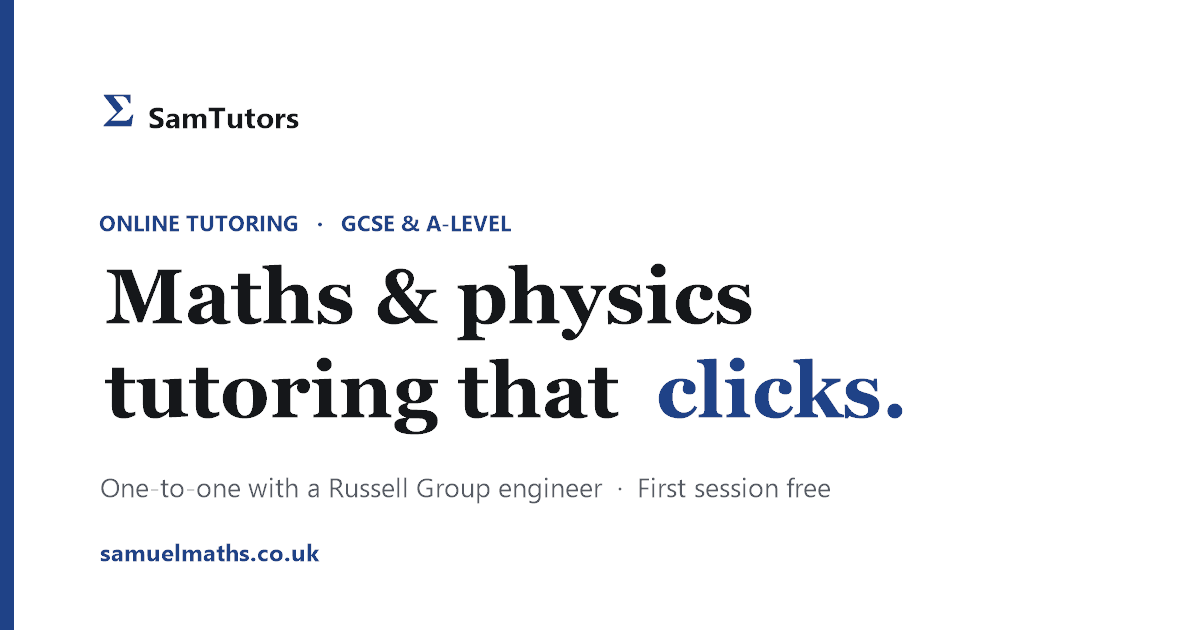
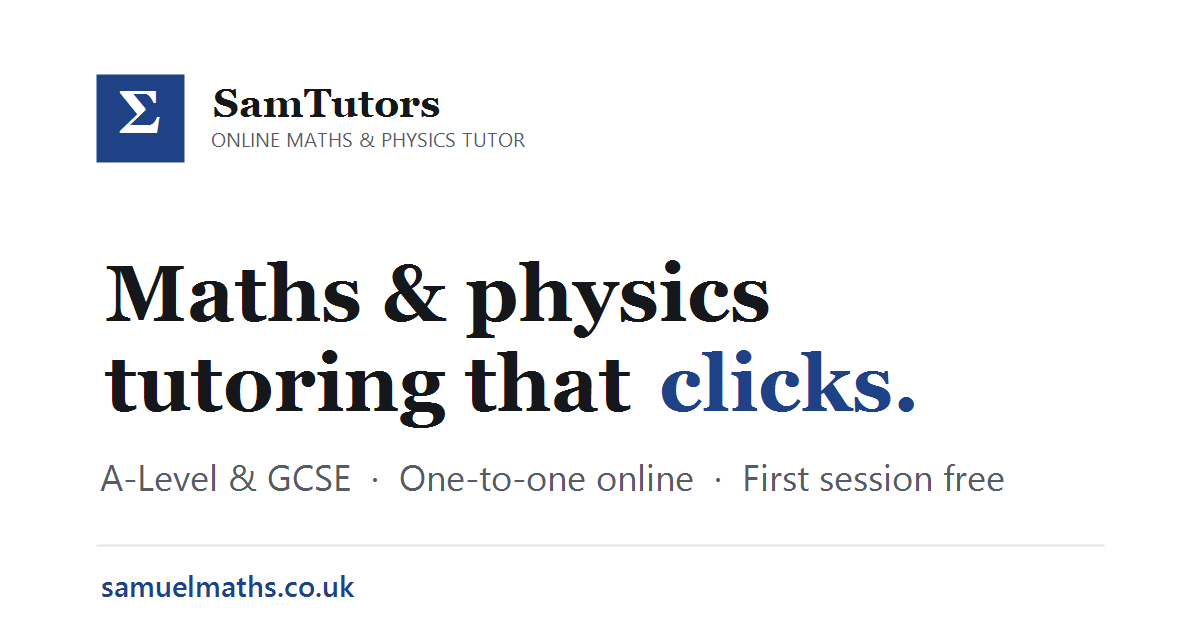
Changes

diff --git a/index.html b/index.html
@@ -5,7 +5,7 @@
   <meta name="viewport" content="width=device-width, initial-scale=1.0" />
   <script>document.documentElement.classList.add("js");</script>
   <title>Online Maths &amp; Physics Tutor · GCSE &amp; A-Level | SamTutors</title>
-  <meta name="description" content="Online one-to-one A-Level &amp; GCSE Maths and Physics tutoring from a Russell Group engineering student. First session free — now taking on new students for September." />
+  <meta name="description" content="Online one-to-one A-Level &amp; GCSE Maths and Physics tutoring from a Russell Group engineering student. First session free. Now taking on new students for September." />
   <link rel="canonical" href="https://samuelmaths.co.uk/" />
   <meta name="robots" content="index, follow, max-image-preview:large" />
   <meta name="theme-color" content="#1f4287" />
@@ -20,7 +20,7 @@
   <meta property="og:image" content="https://samuelmaths.co.uk/assets/og-image.png" />
   <meta property="og:image:width" content="1200" />
   <meta property="og:image:height" content="630" />
-  <meta property="og:image:alt" content="SamTutors — maths &amp; physics tutoring that clicks" />
+  <meta property="og:image:alt" content="SamTutors: maths &amp; physics tutoring that clicks" />
 
   <!-- Twitter -->
   <meta name="twitter:card" content="summary_large_image" />
@@ -63,9 +63,9 @@
       {
         "@type": "Person",
         "@id": "https://samuelmaths.co.uk/#sam",
-        "name": "Samuel",
+        "name": "Sam",
         "jobTitle": "Maths & Physics Tutor",
-        "description": "Second-year Electrical and Electronic Engineering student at the University of Bristol (Russell Group) with A* Mathematics and over a year of tutoring experience.",
+        "description": "Second-year Electrical and Electronic Engineering student at the University of Bristol with A* Mathematics and over a year of tutoring experience.",
         "image": "https://samuelmaths.co.uk/assets/sam.jpg",
         "worksFor": { "@id": "https://samuelmaths.co.uk/#business" },
         "affiliation": { "@type": "CollegeOrUniversity", "name": "University of Bristol" },
@@ -100,8 +100,8 @@
           {
             "@type": "Offer",
             "priceCurrency": "GBP",
-            "price": "30",
-            "priceSpecification": { "@type": "UnitPriceSpecification", "price": "30", "priceCurrency": "GBP", "unitText": "hour" },
+            "price": "25",
+            "priceSpecification": { "@type": "UnitPriceSpecification", "price": "25", "priceCurrency": "GBP", "unitText": "hour" },
             "itemOffered": { "@type": "Service", "name": "GCSE Physics tutoring", "serviceType": "Tutoring" }
           }
         ]
@@ -113,12 +113,12 @@
           {
             "@type": "Question",
             "name": "How and where do the lessons take place?",
-            "acceptedAnswer": { "@type": "Answer", "text": "All lessons are online over Zoom, using a shared interactive whiteboard so your child and I can work through problems together in real time — just like sitting side by side, from the comfort of home." }
+            "acceptedAnswer": { "@type": "Answer", "text": "All lessons are online over Zoom, using a shared interactive whiteboard so your child and I can work through problems together in real time, just like sitting side by side, from the comfort of home." }
           },
           {
             "@type": "Question",
             "name": "Will my child get homework, and how will I know how they're doing?",
-            "acceptedAnswer": { "@type": "Answer", "text": "Yes — I set homework after each session to consolidate what we've covered, and I'll send you a short progress update so you always know how your child is getting on and what we're working towards." }
+            "acceptedAnswer": { "@type": "Answer", "text": "Yes, I set homework after each session to consolidate what we've covered, and I'll send you a short progress update so you always know how your child is getting on and what we're working towards." }
           },
           {
             "@type": "Question",
@@ -133,7 +133,7 @@
           {
             "@type": "Question",
             "name": "How do payment and cancellations work?",
-            "acceptedAnswer": { "@type": "Answer", "text": "Sessions are paid per hour at the rates listed above. Please give at least 24 hours' notice to cancel or reschedule — cancellations within 24 hours are charged in full." }
+            "acceptedAnswer": { "@type": "Answer", "text": "Sessions are paid per hour at the rates listed above. Please give at least 24 hours' notice to cancel or reschedule. Cancellations within 24 hours are charged in full." }
           }
         ]
       }
@@ -169,7 +169,7 @@
       <div class="container hero-inner">
         <span class="availability reveal"><span class="dot" aria-hidden="true"></span> Currently taking on new students for September</span>
         <h1 class="reveal">Maths &amp; physics tutoring that<br /><span class="grad-text">clicks.</span></h1>
-        <p class="lead reveal">One-to-one maths and physics tutoring from a Russell Group engineering student — exam-focused and tailored to how your child learns best. The first session is free.</p>
+        <p class="lead reveal">One-to-one maths and physics tutoring from a Russell Group engineering student. Exam-focused and tailored to how your child learns best. The first session is free.</p>
         <div class="hero-actions reveal">
           <a href="#contact" class="btn btn-primary">Book a free first session</a>
           <a href="#subjects" class="btn btn-ghost">View subjects &amp; pricing</a>
@@ -198,7 +198,7 @@
         <div class="section-head reveal">
           <span class="eyebrow">What I teach</span>
           <h2>Subjects &amp; pricing</h2>
-          <p class="sub">Specialist maths and physics tutoring for GCSE and A-Level students — and your child's first session is free.</p>
+          <p class="sub">Specialist maths and physics tutoring for GCSE and A-Level students, and your child's first session is free.</p>
         </div>
         <div class="grid">
           <article class="card reveal">
@@ -223,7 +223,7 @@
             <div class="card-icon">⚛</div>
             <h3>GCSE Physics</h3>
             <p>Core concepts and exam technique across all major exam boards.</p>
-            <div class="price">£30<span>/hr</span></div>
+            <div class="price">£25<span>/hr</span></div>
           </article>
         </div>
       </div>
@@ -263,7 +263,7 @@
         <div class="reveal">
           <span class="eyebrow">About me</span>
           <h2>Hi, I'm Sam</h2>
-          <p class="sub">I'm a 2nd year Electrical and Electronic Engineering student at the University of Bristol — a Russell Group university. I've tutored for over a year across a range of exam boards, and as a passionate engineer I love making maths click for the students I work with.</p>
+          <p class="sub">I'm a 2nd year Electrical and Electronic Engineering student at the University of Bristol. I've tutored for over a year across a range of exam boards, and as a passionate engineer I love making maths click for the students I work with.</p>
           <p class="cred-label">My A-Level results</p>
           <div class="credentials reveal" aria-label="A-Level results">
             <span class="cred">A* Mathematics</span>
@@ -271,7 +271,7 @@
             <span class="cred">A Further Mathematics</span>
           </div>
           <ul class="check-list">
-            <li>Russell Group university student (University of Bristol)</li>
+            <li>University of Bristol engineering student</li>
             <li>Enhanced DBS checked for your peace of mind</li>
             <li>Over a year of tutoring experience</li>
             <li>Covering AQA, Edexcel &amp; OCR</li>
@@ -280,9 +280,9 @@
         </div>
         <div class="profile-card reveal">
           <img class="avatar-photo" src="assets/sam.jpg" alt="Sam, online maths and physics tutor" width="118" height="118" loading="lazy" decoding="async" />
-          <h3>Samuel</h3>
-          <p class="profile-role">Electrical &amp; Electronic Engineering · University of Bristol (Russell Group)</p>
-          <p>I prioritise exam questions and use a wide range of problems to push students beyond the basics — building real confidence for exam day.</p>
+          <h3>Sam</h3>
+          <p class="profile-role">Electrical &amp; Electronic Engineering · University of Bristol</p>
+          <p>I prioritise exam questions and use a wide range of problems to push students beyond the basics, building real confidence for exam day.</p>
         </div>
       </div>
     </section>
@@ -326,13 +326,13 @@
           <details class="faq-item reveal">
             <summary>How and where do the lessons take place?<span class="faq-icon" aria-hidden="true">+</span></summary>
             <div class="faq-answer">
-              <p>All lessons are online over <strong>Zoom</strong>, using a <strong>shared interactive whiteboard</strong> so your child and I can work through problems together in real time — just like sitting side by side, from the comfort of home.</p>
+              <p>All lessons are online over <strong>Zoom</strong>, using a <strong>shared interactive whiteboard</strong> so your child and I can work through problems together in real time, just like sitting side by side, from the comfort of home.</p>
             </div>
           </details>
           <details class="faq-item reveal">
             <summary>Will my child get homework, and how will I know how they're doing?<span class="faq-icon" aria-hidden="true">+</span></summary>
             <div class="faq-answer">
-              <p>Yes — I set <strong>homework</strong> after each session to consolidate what we've covered, and I'll send you a short <strong>progress update</strong> so you always know how your child is getting on and what we're working towards.</p>
+              <p>Yes, I set <strong>homework</strong> after each session to consolidate what we've covered, and I'll send you a short <strong>progress update</strong> so you always know how your child is getting on and what we're working towards.</p>
             </div>
           </details>
           <details class="faq-item reveal">
@@ -350,7 +350,7 @@
           <details class="faq-item reveal">
             <summary>How do payment and cancellations work?<span class="faq-icon" aria-hidden="true">+</span></summary>
             <div class="faq-answer">
-              <p>Sessions are paid per hour at the rates listed above. Please give at least 24 hours' notice to cancel or reschedule — cancellations within 24 hours are charged in full.</p>
+              <p>Sessions are paid per hour at the rates listed above. Please give at least 24 hours' notice to cancel or reschedule. Cancellations within 24 hours are charged in full.</p>
             </div>
           </details>
         </div>
@@ -364,7 +364,7 @@
           <div class="cta-copy">
             <span class="availability availability-light"><span class="dot" aria-hidden="true"></span> Currently taking on new students for September</span>
             <h2>Your child's first session is free</h2>
-            <p>Get in touch and let's talk about your child's goals — no commitment. I usually reply within a day.</p>
+            <p>Get in touch and let's talk about your child's goals, no commitment. I usually reply within a day.</p>
             <a class="contact-email" href="mailto:[email redacted]">[email redacted]</a>
           </div>
           <div class="contact-actions">
@@ -375,7 +375,7 @@
               Message me on WhatsApp
             </a>
             <a class="btn btn-ghost btn-block" href="mailto:[email redacted]">Email me</a>
-            <p class="fine-print">Lessons are online. Please give at least 24 hours' notice to cancel or reschedule — cancellations within 24 hours are charged in full.</p>
+            <p class="fine-print">Lessons are online. Please give at least 24 hours' notice to cancel or reschedule. Cancellations within 24 hours are charged in full.</p>
           </div>
         </div>
       </div>

diff --git a/css/style.css b/css/style.css
@@ -1,5 +1,5 @@
 /* ============================================================
-   SamTutors — refined black & white with a single accent
+   SamTutors - refined black & white with a single accent
    ============================================================ */
 :root {
   --bg: #ffffff;
@@ -27,7 +27,7 @@
 
 * { box-sizing: border-box; margin: 0; padding: 0; }
 
-html { scroll-behavior: smooth; -webkit-text-size-adjust: 100%; }
+html { scroll-behavior: smooth; -webkit-text-size-adjust: 100%; overflow-x: hidden; overscroll-behavior-x: none; }
 
 body {
   font-family: var(--font-sans);
@@ -35,6 +35,7 @@ body {
   color: var(--text);
   line-height: 1.65;
   overflow-x: hidden;
+  overscroll-behavior-x: none;
 }
 
 .container { width: 100%; max-width: var(--max); margin: 0 auto; padding: 0 1.25rem; }
@@ -255,7 +256,7 @@ section[id] { scroll-margin-top: 84px; }
 }
 
 /* ============================================================
-   Tablet / desktop — progressive enhancement (mobile-first)
+   Tablet / desktop - progressive enhancement (mobile-first)
    ============================================================ */
 @media (min-width: 600px) {
   .hero-actions { flex-direction: row; justify-content: center; max-width: none; }